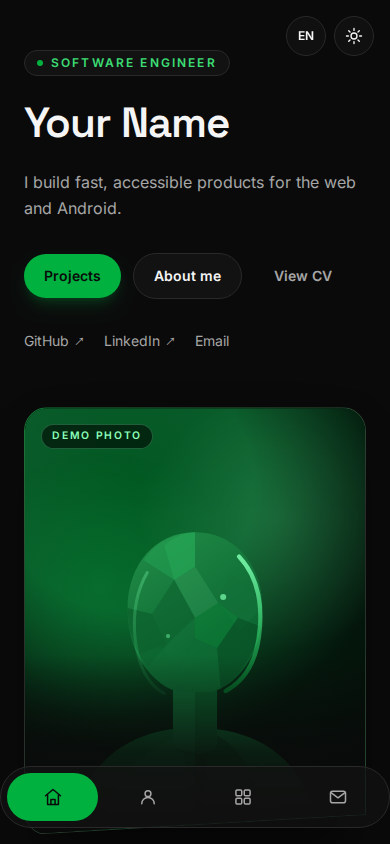
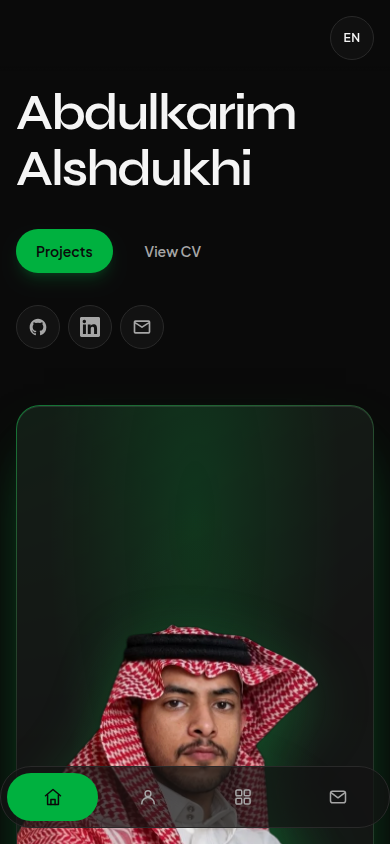
docs: live screenshots and clearer agent onboarding

diff --git a/README.md b/README.md
@@ -5,29 +5,35 @@ Router site, React 19, TypeScript, Tailwind CSS v4, validated JSON content,
 client-side locales, a desktop dock and mobile bar, and a setup wizard that
 turns the demo into your portfolio.
 
-The included persona, projects, screenshots, and assets are fictional demo
-content. Replace them with your own work.
+The screenshots below show the author's live portfolio at
+[abdulkarim.dev](https://abdulkarim.dev), built with this template. The
+repository's own demo persona, projects, and assets remain fictional; replace
+them with your own work.
 
 ## Screenshots
 
-| Home (English, dark)                                                              | Home (Arabic, RTL)                                                                    |
-| --------------------------------------------------------------------------------- | ------------------------------------------------------------------------------------- |
-| ![Home page in English with the vertical dock](docs/screenshots/home-dark-en.png) | ![Home page in Arabic with a right-to-left layout](docs/screenshots/home-dark-ar.png) |
+| Home (English, dark)                                                          | Home (Arabic, RTL)                                                            |
+| ----------------------------------------------------------------------------- | ----------------------------------------------------------------------------- |
+| ![Live portfolio home in English](docs/screenshots/home-dark-en.png)          | ![Live portfolio home in Arabic](docs/screenshots/home-dark-ar.png)            |
 
-| Project detail                                                                           | Mobile home                                                                          |
-| ---------------------------------------------------------------------------------------- | ------------------------------------------------------------------------------------ |
-| ![Demo project detail page with lenses and metrics](docs/screenshots/project-detail.png) | ![Mobile home page with the bottom navigation bar](docs/screenshots/mobile-home.png) |
+| Project detail                                                             | Mobile home                                                          |
+| -------------------------------------------------------------------------- | -------------------------------------------------------------------- |
+| ![Live project detail page](docs/screenshots/project-detail.png)           | ![Live mobile home page](docs/screenshots/mobile-home.png)            |
 
 ## 🤖 Copy this message for your agent
 
 ```
-Set up this portfolio template for me. First ask me:
-1) How many projects do I have (0–50)?
-2) Do I want English only, or English + another language (Arabic or any other)?
-3) My name, role, links (GitHub/LinkedIn/website), and contact email.
-4) Do I want a CV, contact form, live metrics, 3D hero, and laptop animation?
+Set up this portfolio template for me. Read AGENTS.md first.
 
-Then run `npm run setup`, fill in my content under `content/`, replace the demo assets, and run `npm run build` and `npm test` to verify. Do not invent personal data.
+Ask me only for:
+1) How many projects I have (0–50).
+2) English only, or English plus another locale.
+3) My name, role, pitch, public email, and canonical site URL.
+4) GitHub, LinkedIn, and website links (or none).
+5) Optional: CV PDF path, CV DOCX download path, hero photo, and laptop frame sequence.
+6) Which features to enable: CV, contact, metrics, 3D hero, and laptop.
+
+Then run `npm run setup` (interactive, or with the flags in docs/SETUP.md), replace the demo content and demo images with mine, keep any project marked `"demo": false`, and run `npm run verify:fast` plus `node scripts/check-privacy.mjs`. Never invent personal data, commit secrets, or weaken the privacy scan, budgets, or tests.
 ```
 
 For a richer agent brief, see [`AGENTS.md`](AGENTS.md).
@@ -132,6 +138,7 @@ the build fails with a path-specific error if a value is invalid.
 | `cv.downloadFile`   | site path or null       | Optional download path (DOCX) while `cv.file` stays the preview |
 | `hero.photo`        | site path or null       | Hero portrait; null uses the demo avatar                        |
 | `hero.laptopFrames` | site path array or null | Scroll-scrub frame sequence; null uses the CSS demo laptop      |
+| `hero.laptopMobileFrames` | site path array or null | Optional mobile frame sequence; null reuses the desktop frames |
 | `about.intro`       | localized string        | About section copy and laptop-screen intro                      |
 | `contact.recipient` | email                   | Contact recipient                                               |
 | `contact.labels`    | localized string array  | Options for the contact form Label field                        |

diff --git a/docs/CONTENT.md b/docs/CONTENT.md
@@ -25,6 +25,7 @@ clear error if it is invalid.
 | `cv.downloadFile`   | site path or null       | Optional file that overrides only the download (e.g. a DOCX)  |
 | `hero.photo`        | site path or null       | Hero portrait; null keeps the demo avatar                     |
 | `hero.laptopFrames` | site path array or null | Frame sequence for the About laptop scrub                     |
+| `hero.laptopMobileFrames` | site path array or null | Optional mobile frame sequence; null reuses the desktop frames |
 | `about.intro`       | localized string        | About copy and the laptop screen intro                        |
 | `contact.recipient` | email                   | Contact form recipient                                        |
 | `contact.labels`    | localized string array  | Options for the contact form Label field                      |
@@ -73,8 +74,10 @@ Recommended: 60–90 WebP frames, no more than 2.5 MB total. Every path must
 start with `/` and point at a file under `public/`. The frames are preloaded and
 drawn into a fixed 16:10 canvas container, so the page does not shift. With
 `null` (the template default) the About section uses a CSS 3D laptop instead.
-Desktop pins the section and scrubs with GSAP; mobile auto-plays the opening
-once; reduced motion shows the open state immediately.
+The scrub is native and scroll-driven (no GSAP and no scroll pin) on desktop and
+mobile. Set `hero.laptopMobileFrames` for a smaller mobile sequence; when it is
+`null`, mobile reuses `hero.laptopFrames`. Reduced motion shows the open state
+immediately.
 
 ## CV
 

diff --git a/AGENTS.md b/AGENTS.md
@@ -43,7 +43,10 @@ Ask only what you need, then write the answers down before changing files.
 
 - Display name, role, pitch, public email, canonical site URL.
 - GitHub, LinkedIn, and website links (or none).
-- CV PDF path, hero photo path, and laptop frame sequence (all optional).
+- CV PDF path, hero photo path, and laptop frame sequences (all optional).
+  `cv.downloadFile` is an optional DOCX used only for the download while
+  `cv.file` stays the preview; `hero.laptopMobileFrames` is an optional mobile
+  frame sequence that falls back to `hero.laptopFrames` when null.
 - Contact recipient and the labels the contact form should offer.
 
 **Optional features**
@@ -134,6 +137,8 @@ Rules of thumb:
 - Optional UI is dynamically imported and gated by feature flags.
 - Locale selection is client-side (no locale route prefix) and updates `lang`
   and `dir` without navigation.
+- `LaptopScrub.tsx` uses native scroll-driven frames (no GSAP and no scroll
+  pin), so any change must stay within the Lighthouse script budget.
 
 ## 5. Do not
 
